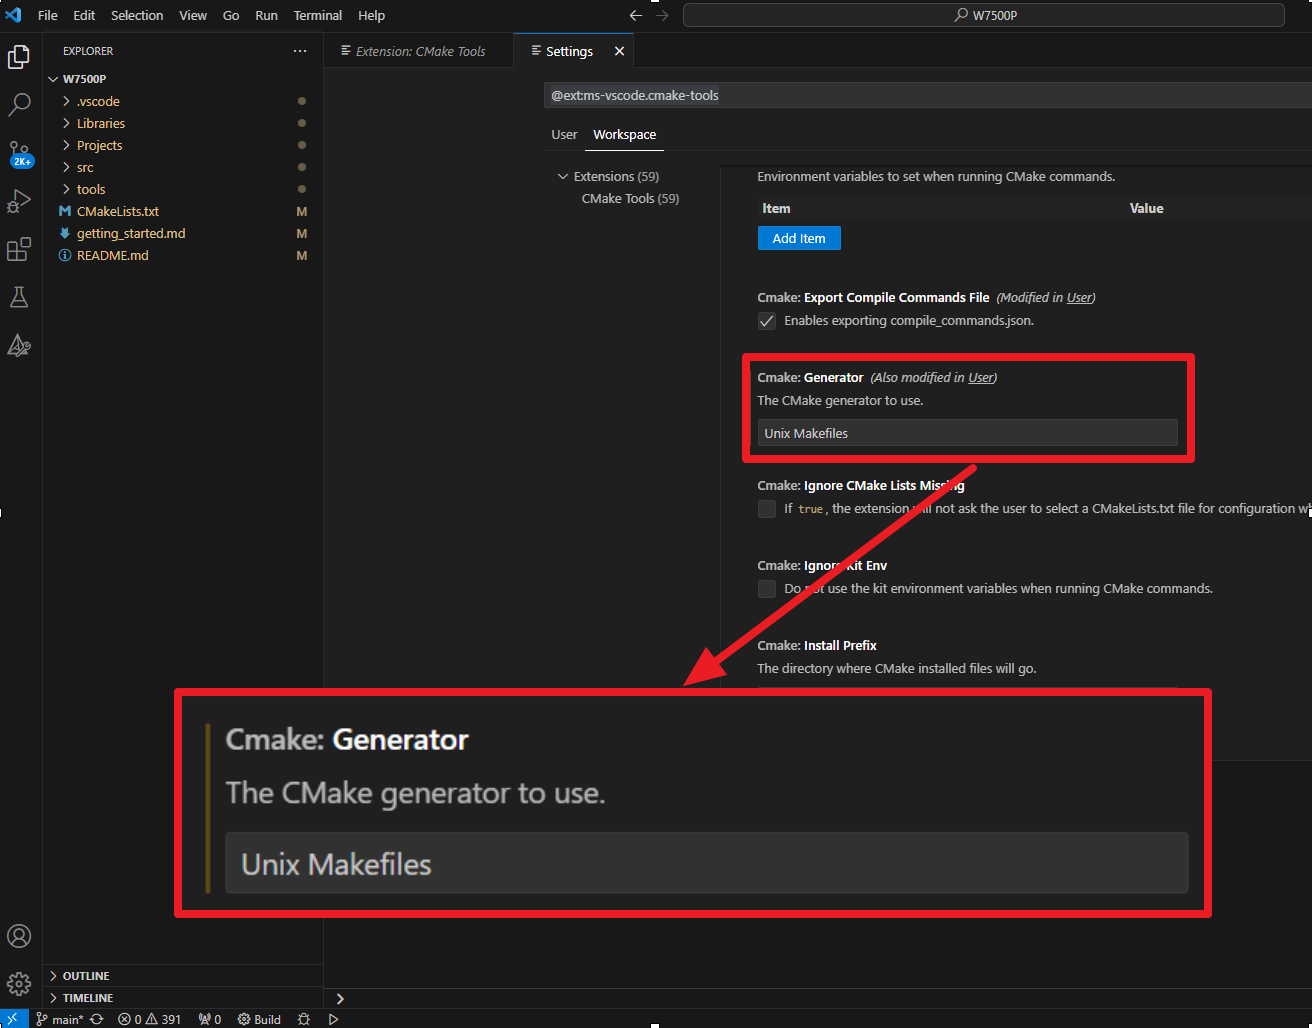
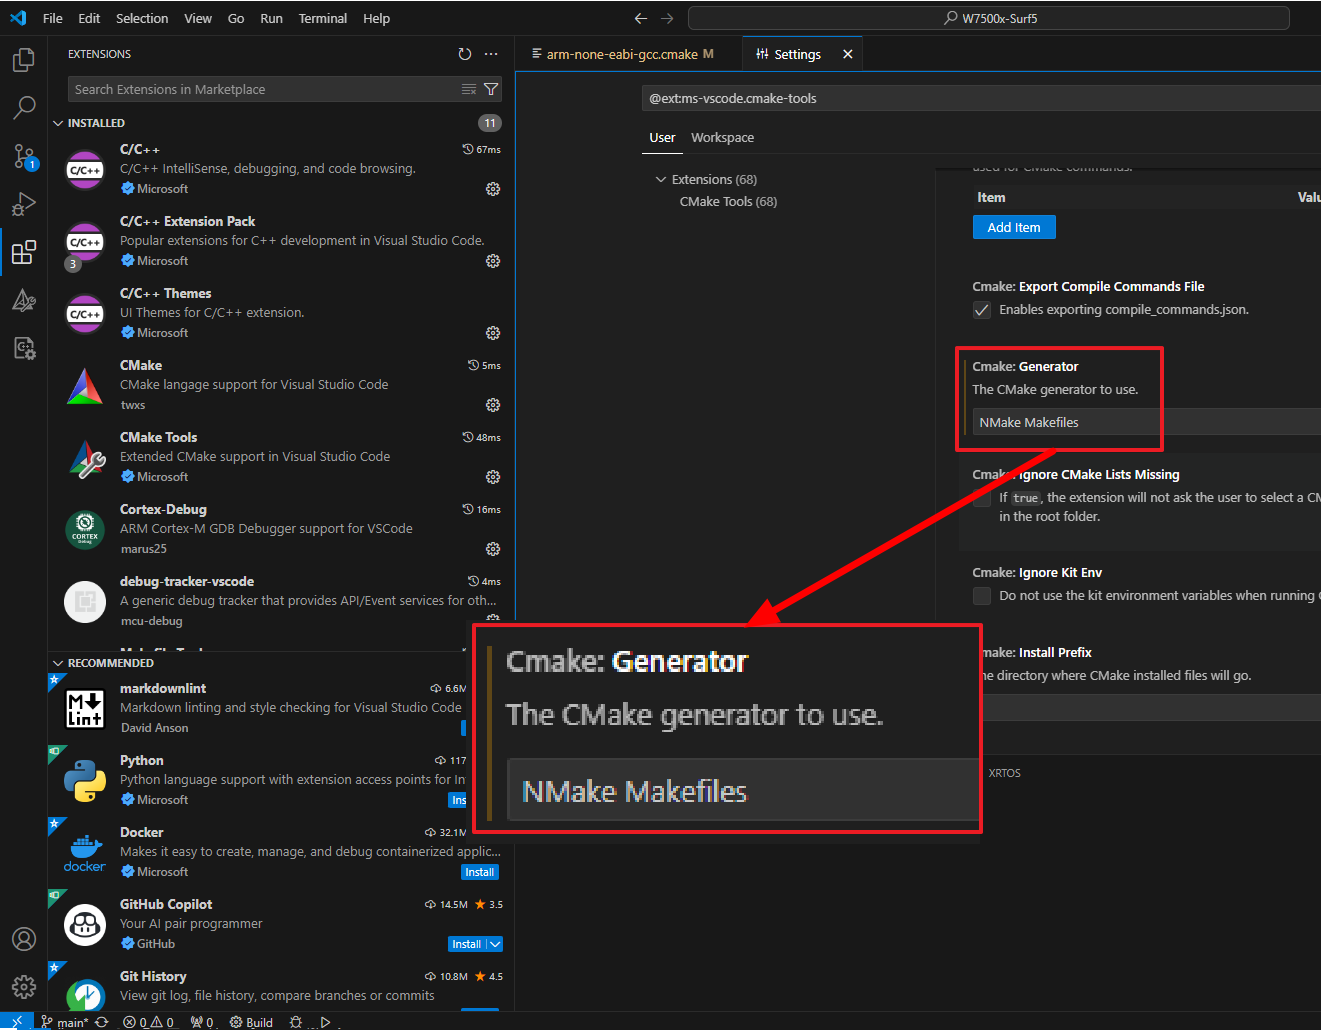
surf 5

diff --git a/docs/Product/Open-Source-Hardware/surf5/getting-started/fw-examples.md b/docs/Product/Open-Source-Hardware/surf5/getting-started/fw-examples.md
@@ -18,8 +18,43 @@ If you haven't downloaded the Surf 5 project yet, Click the link below to access
 
 ## How to make Surf 5 Project in VS Code
 
+### 1. Launching VS Code
 
-### 1. Installing Extensions in VS Code
+**Step 1** 
+
+In 'Developer Command Prompt for VS 2022', you must call the code command to run VS Code. Execute 'Developer Command Prompt for VS 2022' in the Windows search bar below.
+
+
+<img src="/img/osh/surf5/command_prompt1.png" width="500" />
+<br />
+<br />
+<br />
+
+**Step 2** 
+
+Call the 'Code' command to execute VS Code.
+
+
+<img src="/img/osh/surf5/command_prompt2.png" width="500" />
+<br />
+<br />
+<br />
+
+**Step 3** 
+
+Load the project folder of Surf 5 in VS Code.
+
+
+<img src="/img/osh/surf5/vscodeon.png" width="500" />
+
+<br />
+<br />
+<br />
+<br />
+<br />
+
+
+### 2. Installing Extensions in VS Code
 
 
 Search for and install the three extensions shown in the image below in the extension program search bar.
@@ -27,53 +62,7 @@ Search for and install the three extensions shown in the image below in the exte
 
 <img src="/img/osh/surf5/vscodeextensions.png" width="700" />
 
-<br />
-<br />
-<br />
-<br />
-<br />
 
-### 2. Create a New Workspace (Prevent Changes to Existing Settings)
-
-**Step 1** 
-
-Create a new workspace. The reason for creating a new workspace is to prevent changes to the existing settings.
-
-First, select <span style={{ backgroundColor: '#f7ddbe' }}>"File -> Add Folder to Workspace"</span>.
-
-<img src="/img/osh/surf5/vsset22.png" width="700" />
-
-
-  <br />
-  <br />
-  <br />
-
-**Step 2** 
-
-Select the <span style={{ backgroundColor: '#f7ddbe' }}>"W7500x-Surf5"</span> project folder as the target for the workspace, and then click the <span style={{ backgroundColor: '#f7ddbe' }}>"Add"</span> button. 
-(The "W7500x-Surf5" should be the top-level directory.)
-
-<img src="/img/osh/surf5/vsset23.png" width="400" />
-
-  <br />
-  <br />
-  <br />
-  
-**Step 3** 
-
-If you've added the workspace with the W7500x-Surf5 folder path, then click on <span style={{ backgroundColor: '#f7ddbe' }}>"File -> Save Workspace As..."</span> again.
-
-<img src="/img/osh/surf5/vsset24.png" width="700" />
-
-  <br />
-  <br />
-  <br />
-
-**Step 4** 
-
-Simply press <span style={{ backgroundColor: '#f7ddbe' }}>"Save"</span> with the same file name.
-
-<img src="/img/osh/surf5/vsset25.png" width="600" />
 <br />
 <br />
 <br />
@@ -82,69 +71,36 @@ Simply press <span style={{ backgroundColor: '#f7ddbe' }}>"Save"</span> with the
 
 ### 3.  Save the CMake Extension Settings for the stored workspace.
 
-**Step 1** 
-
-In CMake Tools, go to <span style={{ backgroundColor: '#f7ddbe' }}>"the gear icon (settings) -> Extension Settings </span> 
-
-<img src="/img/osh/surf5/vsset26.png" width="700" />
-
-<br />
-<br />
-
-Go to the Workspace tab in the red box. In the top search bar, type <span style={{ backgroundColor: '#f7ddbe' }}>"@ext:ms-vscode.cmake-tools"</span> to search.
-
-
-<img src="/img/osh/surf5/vsset27.png" width="700" />
-
-<br />
-<br />
-<br />
-
-**Step 2** 
-
-In the options, press <span style={{ backgroundColor: '#f7ddbe' }}>"Add Item"</span> in the Configure Args section and add the following two definitions:
-
-<span style={{ backgroundColor: '#f7ddbe' }}>-DCMAKE_MAKE_PROGRAM</span> is the location of the make executable (inside the previously extracted xpack folder).
-
-<span style={{ backgroundColor: '#f7ddbe' }}>-DARM_TOOLCHAIN_DIR</span> is the location of the GNU Arm compiler's executable files that you previously downloaded.
-
-For example, the author used: 
-
-| CMake: Configure Args                        |
-|----------------------------------------------|
-|-DARM_TOOLCHAIN_DIR=C:/Program Files (x86)/GNU Arm Embedded Toolchain/10 2021.10/bin<br /> |
-|-DCMAKE_MAKE_PROGRAM=C:/Program Files (x86)/xpack-windows-build-tools-4.4.0-1/bin/make.exe |
-
-
- <span style={{ backgroundColor: '#f7ddbe' }}>Adjust the Configure Args to match your own file paths according to your setup.</span>.
-
- 
-<br />
-
-<img src="/img/osh/surf5/vsset28.png" width="700" />
-
-<br />
-<br />
-<br />
-
-**Step 3** 
-
-Once you have completed the path configuration, enter "Unix Makefiles" in the "CMake: Generator" field. make sure to check the case sensitivity of <span style={{ backgroundColor: '#f7ddbe' }}>"Unix Makefiles"</span>.
+Once you have completed the path configuration, enter "NMake Makefiles" in the "CMake: Generator" field. make sure to check the case sensitivity of <span style={{ backgroundColor: '#f7ddbe' }}>"NMake Makefiles"</span>.
 
 | CMake: Generator    |
 |---------------------|
-|Unix Makefiles<br /> |
+|NMake Makefiles<br /> |
 
 <img src="/img/osh/surf5/vsset29.png" width="700" />
 
 
 
+### 4. Modifying the contents of the 'arm-none-eabi-gcc.cmake' file
+
+Within the 'arm-none-eabi-gcc.cmake' file in the tools directory, you need to specify the 'ARM_TOOLCHAIN_DIR' path. 'ARM_TOOLCHAIN_DIR' is located inside the path where your GNU Arm Embedded Toolchain executable is installed. Find your path and enter it.
+
+<span style={{ backgroundColor: '#f7ddbe' }}>When setting the path, be sure to delete the backslash (\) and enter it as a slash (/).</span>. You may refer to the example code below.
+
+| Code to be added to 'arm-none-eabi-gcc.cmake                        |
+|----------------------------------------------|
+|set(ARM_TOOLCHAIN_DIR "C:/Program Files (x86)/GNU Arm Embedded Toolchain/10 2021.10/bin")<br /> |
+
+
+<img src="/img/osh/surf5/cmakefile_edit.png" width="500" />
+
+<br />
 <br />
 <br />
 <br />
 <br />
 
-### 4. Build Project in VS Code
+### 5. Build Project in VS Code
 
 **Step 1** 
 
@@ -157,7 +113,7 @@ Press the F1 key, and then click on <span style={{ backgroundColor: '#f7ddbe' }}
 
 **Step 2** 
 
-Select <span style={{ backgroundColor: '#f7ddbe' }}>"GCC Arm Embedded"</span> to configure the kit.
+Select <span style={{ backgroundColor: '#f7ddbe' }}>"GCC 10.x.x arm-none-eabi"</span> to configure the kit.
 
 <img src="/img/osh/surf5/vsset31.png" width="700" />
 <br />
@@ -196,36 +152,20 @@ Flash the .bin file of the desired project in the 'build' directory to Surf 5 Pr
 <br />
 <br />
 
+
 ### 5. How to solve Surf 5 build error in VS Code
 
 
 If the build is still not working despite configuring Visual Studio Code settings, follow the steps below.
-<br />
-<br />
-<br />
+
 
 **Step 1** 
 
-If other files have appeared in the .vscode directory, please structure the directory as shown in the image below. You should delete all files <span style={{ backgroundColor: '#f7ddbe' }}>except "cmake-kits.json"</span>.
 
-<img src="/img/osh/surf5/error1.png" width="700" />
-<br />
-<br />
-<br />
-<br />
+<img src="/img/osh/surf5/cmakefile_edit.png" width="700" /><br /><br /><br /><br />
 
-
-
-**Step 2** 
-
-Check the path that was previously set in CMake: Configure Args. If it hasn't been saved to the workspace, it is advisable to add it again and save. Configure <span style={{ backgroundColor: '#f7ddbe' }}>"CMake: Configure Args"</span> according to your own path as shown in the picture below. Also, check if the directory exists on your PC at that path.
-
-<img src="/img/osh/surf5/vsset28.png" width="700" /><br /><br /><br />
-
-Check the command for the <span style={{ backgroundColor: '#f7ddbe' }}>"Cmake: Generator"</span>. If the command is not entered, please input the command as follows. also, Be sure to respect the case sensitivity of <span style={{ backgroundColor: '#f7ddbe' }}>"Unix Makefiles"</span>.
 
 <img src="/img/osh/surf5/vsset29.png" width="700" /><br /><br /><br /><br />
-
 
 
 
@@ -247,7 +187,7 @@ Press the F1 key, and then click on <span style={{ backgroundColor: '#f7ddbe' }}
 
 <img src="/img/osh/surf5/vsset30.png" width="700" /><br /><br /><br />
 
-Select <span style={{ backgroundColor: '#f7ddbe' }}>"GCC Arm Embedded"</span> to configure the kit.
+Select <span style={{ backgroundColor: '#f7ddbe' }}>"GCC 10.x.x arm-none-eabi"</span> to configure the kit.
 
 <img src="/img/osh/surf5/vsset31.png" width="700" /><br /><br /><br /><br />
 
@@ -278,6 +218,8 @@ Next, Reinstall VS Code and then rebuild.
 <br />
 <br />
 <br />
+
+
 -----
 
 ## How to make Surf 5 Project in Keil 5
